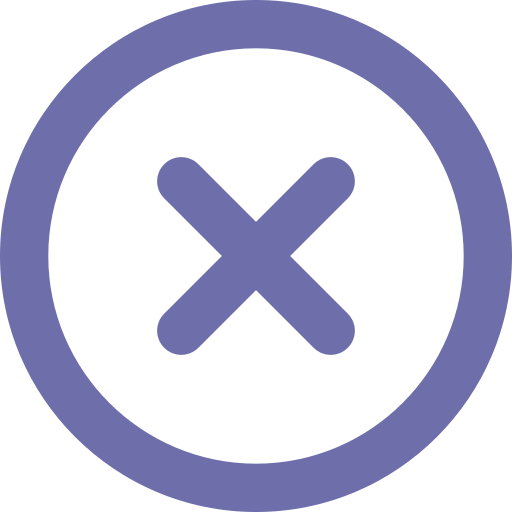
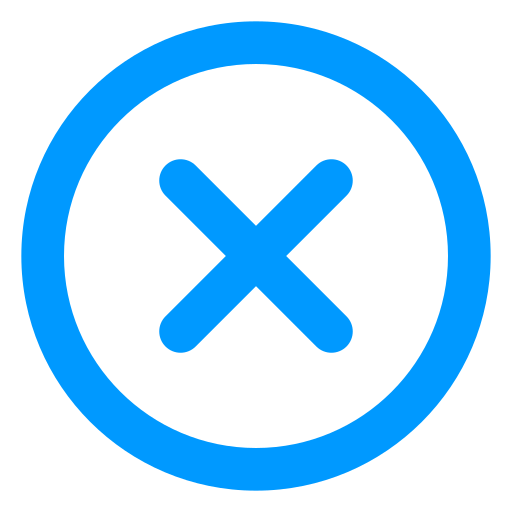
feat : 접수정보 입력 화면 관련 기능 구현
- ModelProperty 의 SetReceptionData 함수 필드 설정 수정
 - MaskControl 버튼 Command 연결 기능 구햔
 - 접수정보 화면 콤보박스 ItemsSource 값 설정
 - 접수정보 현재일시 설정 기능 추가
 - 앱 실행시 공용 데이터 로드하도록 수

diff --git a/SmartEMR.Application/Views/SmartEMRDesk/vSmartEMRDeskRCPInfo.xaml b/SmartEMR.Application/Views/SmartEMRDesk/vSmartEMRDeskRCPInfo.xaml
@@ -21,7 +21,8 @@
         
         <Xpf:BindGrid   Grid.Row="0"
                         LayoutDefinitions="2,8"
-                        BindStyle="DataCell">
+                        BindStyle="DataCell"
+                        ItemSpace="2">
             <x:Array Type="{x:Type Xpf:BindItem}">
                 <Xpf:BindItem   FieldName="RCP_ReceiptDate"
                                 Header="접 수 일 시"
@@ -35,6 +36,14 @@
                                 DisplayMember="attrName"
                                 ValueMember="attrValue"
                                 DateEditType="Time"/>
+
+                <Xpf:BindItem   FieldName="chkSetNowDT"
+                                BindType="CheckBox"
+                                Width="45"
+                                TextValue="현재"
+                                Foreground="DimGray"
+                                FontWeight="SemiBold"
+                                IsBinding="False"/>
             </x:Array>
 
             <x:Array Type="{x:Type Xpf:BindItem}">
@@ -43,7 +52,9 @@
                                 BindType="ComboBox"
                                 Col="0"
                                 Row="1"
-                                ColSpan="2"/>
+                                ColSpan="2"
+                                DisplayMember="CCC_Name"
+                                ValueMember="CCC_Cd"/>
 
                 <Xpf:BindItem   FieldName="RCP_SubjectName"
                                 BindType="TextBox"
@@ -75,16 +86,16 @@
                             BindType="ComboBox"
                             Col="0"
                             Row="3"
-                            DisplayMember="attrName"
-                            ValueMember="attrValue"/>
+                            DisplayMember="CCC_Name"
+                            ValueMember="CCC_Cd"/>
 
             <Xpf:BindItem   FieldName="RCP_Route"
                             Header="내 원 경 로"
                             BindType="ComboBox"
                             Col="1"
                             Row="3"
-                            DisplayMember="attrName"
-                            ValueMember="attrValue"/>
+                            DisplayMember="CCC_Name"
+                            ValueMember="CCC_Cd"/>
 
             <x:Array Type="{x:Type Xpf:BindItem}">
                 <Xpf:BindItem   FieldName="RCP_InsuranceType"
@@ -92,7 +103,9 @@
                                 BindType="ComboBox"
                                 Col="0"
                                 Row="4"
-                                ColSpan="2"/>
+                                ColSpan="2"
+                                DisplayMember="CCC_Name"
+                                ValueMember="CCC_Cd"/>
 
                 <Xpf:BindItem   FieldName="btnSetIRC"
                                 BindType="Button"
@@ -120,8 +133,8 @@
                         Content="접수취소"
                         Glyph="/Images/smartemr_cancel.png"
                         Width="90"
-                        MinHeight="23"
-                        Height="23"
+                        MinHeight="24"
+                        Height="24"
                         Margin="2,0,0,0"
                         Command="{Binding SetReceptionCommand}"
                         CommandParameter="DELETE"
@@ -129,28 +142,23 @@
 
             <Xpf:Button x:Name="btnSaveRCP"
                         Grid.Column="2"
-                        Glyph="/Images/smartemr_cancel.png"
+                        Content="접수등록"
+                        Glyph="/Images/smartemr_save.png"
                         Width="90"
-                        MinHeight="23"
-                        Height="23"
+                        MinHeight="24"
+                        Height="24"
                         Margin="0,0,2,0"
                         Command="{Binding SetReceptionCommand}"
                         CommandParameter="SAVE">
-
-                <Xpf:Button.Content>
-                    <Xpf:TextBlock>
-                        <Run>접수</Run>
-                        <Run Text="{Binding RCPItem.RCP_Idx, RelativeSource={RelativeSource AncestorType={x:Type desk:vSmartEMRDeskRCPInfo}}, Converter={common:IntoToContentConveter}}"/>
-                    </Xpf:TextBlock>
-                </Xpf:Button.Content>
             </Xpf:Button>
         </Xpf:StyleGrid>
 
         <Xpf:MaskControl    x:Name="MaskControl"
                             Grid.RowSpan="2"
-                            MaskText="환자선택후 접수 등록할 수 있습니다."
+                            MaskText="환자선택후 접수 등록할 수 있습니다."                            
+                            MaskVisibility="{Binding RCPItem.RCP_Idx, RelativeSource={RelativeSource AncestorType={x:Type desk:vSmartEMRDeskRCPInfo}}, Converter={converter:IntToVisibilityConverter invert=True}}"
                             ButtonText="접수등록"
                             ButtonImage="/Images/smartemr_register.png"
-                            MaskVisibility="{Binding RCPItem.RCP_Idx, RelativeSource={RelativeSource AncestorType={x:Type desk:vSmartEMRDeskRCPInfo}}, Converter={converter:IntToVisibilityConverter invert=True}}"/>
+                            ButtonCommand="{Binding ShowRCPInfoCommand, RelativeSource={RelativeSource AncestorType={x:Type desk:vSmartEMRDeskRCPInfo}}}"/>
     </Xpf:StyleGrid>
 </base:ModelViewLayout>

diff --git a/SmartEMR.Application/Themes/Generic.xaml b/SmartEMR.Application/Themes/Generic.xaml
@@ -391,7 +391,8 @@
                                         Content="{Binding ButtonText, RelativeSource={RelativeSource TemplatedParent}}"
                                         Glyph="{Binding ButtonImage, RelativeSource={RelativeSource TemplatedParent}}"
                                         Width="90"
-                                        Margin="0,4,0,0"/>
+                                        Margin="0,4,0,0"
+                                        Command="{Binding ButtonCommand, RelativeSource={RelativeSource TemplatedParent}}"/>
                         </StackPanel>
                     </Xpf:StyleGrid>
                 </ControlTemplate>

diff --git a/SmartEMR.Application/Views/SmartEMRDesk/vSmartEMRDeskRCPInfo.xaml.cs b/SmartEMR.Application/Views/SmartEMRDesk/vSmartEMRDeskRCPInfo.xaml.cs
@@ -1,10 +1,11 @@
-using System.Windows;
+using CommunityToolkit.Mvvm.Input;
 using SmartEMR.Application.Core;
 using SmartEMR.Application.ViewBase;
 using SmartEMR.Application.ViewModels;
 using SmartEMR.Application.Xpf;
 using SmartEMR.Domain.Entities;
 using SmartEMR.Domain.Enums;
+using System.Windows;
 
 namespace SmartEMR.Application.Views.SmartEMRDesk
 {
@@ -31,19 +32,23 @@ namespace SmartEMR.Application.Views.SmartEMRDesk
         protected override void SetBindGrid()
         {
             this.BindGrids[0].GetBindItem<StyleTextBox>("RCP_SubjectName")?.HorizontalAlignment = HorizontalAlignment.Stretch;
-            this.BindGrids[0].GetBindItem<StyleTextBox>("RCP_SubjectName")?.Height = 32;
-            this.BindGrids[0].GetBindItem<StyleTextBox>("RCP_SubjectName")?.Margin = new Thickness(2, 0, 2, 0);
+            this.BindGrids[0].GetBindItem<StyleTextBox>("RCP_SubjectName")?.Height = 38;
+            this.BindGrids[0].GetBindItem<StyleTextBox>("RCP_SubjectName")?.Margin = new Thickness(2);
 
             this.BindGrids[0].GetBindItem<ComboBoxEdit>("MUR_Idx_DOC")?.ItemsSource = vm.arrMUR_DOC;
-            this.BindGrids[0].GetBindItem<ComboBoxEdit>("MUR_Idx_DOC")?.SelectedIndex = 0;
-
             this.BindGrids[0].GetBindItem<ComboBoxEdit>("MUR_Idx_STF")?.ItemsSource = vm.arrMUR_STF;
-            this.BindGrids[0].GetBindItem<ComboBoxEdit>("MUR_Idx_STF")?.SelectedIndex = 0;
+            this.BindGrids[0].GetBindItem<ComboBoxEdit>("RCP_Subject")?.ItemsSource = vm.arrRCP_Subject;
+            this.BindGrids[0].GetBindItem<ComboBoxEdit>("RCP_VisitType")?.ItemsSource = vm.arrRCP_VisitType;
+            this.BindGrids[0].GetBindItem<ComboBoxEdit>("RCP_Route")?.ItemsSource = vm.arrRCP_Route;
+            this.BindGrids[0].GetBindItem<ComboBoxEdit>("RCP_InsuranceType")?.ItemsSource = vm.arrRCP_InsuranceType;
+
+            this.BindGrids[0].GetBindItem<StyleTextBox>("RCP_Memo")?.Margin = new Thickness(1);
+
+            this.BindGrids[0].GetBindItem<CheckEdit>("chkSetNowDT")?.EditValueChanged += OnEditValueChanged_CheckBoxEdit;
         }
 
         public override async Task OnBindGrid_BindClick(object sender, BindClickEventArgs e)
         {
-            // 클릭 이벤트 구현
         }
 
         public override void OnBindGrid_BindItemChanged(object? sender, BindItemChangedEventArgs e)
@@ -95,6 +100,12 @@ namespace SmartEMR.Application.Views.SmartEMRDesk
             SetReceptionData(retRCP);
         }
 
+        [RelayCommand]
+        private void ShowRCPInfo()
+        {
+            MaskControl.Visibility = Visibility.Collapsed;
+        }
+
         private void SetReceptionData(Reception? item)
         {
             if (item == null)
@@ -106,12 +117,39 @@ namespace SmartEMR.Application.Views.SmartEMRDesk
 
             if (RCPItem.RCP_Idx == 0)
             {
+                RCPItem.RCP_Subject = "GNR";
+                RCPItem.RCP_VisitType = "FIR";
+                RCPItem.RCP_Route = "DSK";
+                RCPItem.RCP_InsuranceType = "NOR";
+
                 MaskControl.MaskText = "오늘 날짜의 접수내역이 없습니다.";
                 MaskControl.ShowButton = true;
             }
             else
             {
+                btnSaveRCP.Content = "접수수정";
+
                 MaskControl.MaskVisibility = Visibility.Collapsed;
+            }
+        }
+
+        private void OnEditValueChanged_CheckBoxEdit(object sender, DevExpress.Xpf.Editors.EditValueChangedEventArgs e)
+        {
+            var element = sender as CheckEdit;
+            if (element == null) return;
+
+            if (element.IsChecked.GetValueOrDefault(true))
+            {
+                this.BindGrids[0].GetBindItem<DateEdit>("RCP_ReceiptDate")?.IsEnabled = false;
+                this.BindGrids[0].GetBindItem<DateEdit>("RCP_ReceiptTime")?.IsEnabled = false;
+
+                RCPItem.RCP_ReceiptDate = DateTime.Now.ToString("yyyy-MM-dd");
+                RCPItem.RCP_ReceiptTime = DateTime.Now.ToString("HH:mm");
+            }
+            else
+            {
+                this.BindGrids[0].GetBindItem<DateEdit>("RCP_ReceiptDate")?.IsEnabled = true;
+                this.BindGrids[0].GetBindItem<DateEdit>("RCP_ReceiptTime")?.IsEnabled = true;
             }
         }
     }

diff --git a/SmartEMR.Application/Xpf/Xpf.BindGrid.cs b/SmartEMR.Application/Xpf/Xpf.BindGrid.cs
@@ -291,7 +291,7 @@ public partial class BindGrid : StyleGrid, IDisposable
                     DateEditType.Date => new DateEdit { },
                     DateEditType.Time => new DateEdit 
                     {
-                        Mask = "tt HH:mm",
+                        Mask = "tt hh:mm",
                         MaskUseAsDisplayFormat=true,
                         MaskType = DevExpress.Xpf.Editors.MaskType.DateTime,
                         StyleSettings = new DateEditTimePickerStyleSettings()
@@ -312,6 +312,7 @@ public partial class BindGrid : StyleGrid, IDisposable
         visualChild.HorizontalAlignment = bindItem.HAlignment;
         visualChild.VerticalAlignment = bindItem.VAlignment;
         visualChild.Margin = (Thickness)((bindItem.Margin == null) ? new Thickness(this.ItemSpace) : bindItem.Margin);
+        visualChild.IsEnabled = bindItem.IsEnabled;
 
         if (!string.IsNullOrWhiteSpace(bindItem.BackGround) && SmartMVVM.Common.BrushConverter.ConvertFromString(bindItem.BackGround) is Brush bg)
             visualChild.SetValue(BackgroundProperty, bg);
@@ -321,7 +322,14 @@ public partial class BindGrid : StyleGrid, IDisposable
 
         if (bindItem.IsBindClickEvent)
         {
-            if (visualChild is Button button) button.Click += OnBindClick;
+            if (visualChild is Button button) 
+            {
+                button.Click += OnBindClick;
+            }
+            else if (visualChild is CheckEdit chkEdit)
+            {
+                chkEdit.PreviewMouseLeftButtonDown += OnBindClick;
+            }
             else visualChild.MouseLeftButtonDown += OnBindClick;
         }
 

diff --git a/SmartEMR.Application/Xpf/Xpf.MaskControl.cs b/SmartEMR.Application/Xpf/Xpf.MaskControl.cs
@@ -1,11 +1,11 @@
-using System.Windows;
+using CommunityToolkit.Mvvm.Input;
+using System.Windows;
 using System.Windows.Media;
 
 namespace SmartEMR.Application.Xpf;
 
 public class MaskControl : CustomControl
 {
-    public string? MaskText { get; set; }
     public string? ButtonText { get; set; }
     public ImageSource? ButtonImage { get; set; }
 
@@ -24,6 +24,15 @@ public class MaskControl : CustomControl
         }
     }
 
+    public static readonly DependencyProperty MaskTextProperty =
+        DependencyProperty.Register(nameof(MaskText), typeof(string), typeof(MaskControl), new PropertyMetadata(string.Empty, null));
+
+    public string? MaskText 
+    {
+        get => (string)GetValue(MaskTextProperty);
+        set => SetValue(MaskTextProperty, value);
+    }
+
     public static readonly DependencyProperty MaskVisibilityProperty =
         DependencyProperty.Register(nameof(MaskVisibility), typeof(Visibility), typeof(MaskControl), new PropertyMetadata(Visibility.Visible, null));
 
@@ -31,6 +40,15 @@ public class MaskControl : CustomControl
     {
         get => (Visibility)GetValue(MaskVisibilityProperty);
         set => SetValue(MaskVisibilityProperty, value);
+    }
+
+    public static readonly DependencyProperty ButtonCommandProperty =
+        DependencyProperty.Register(nameof(ButtonCommand), typeof(IRelayCommand), typeof(MaskControl), new PropertyMetadata(null, null));
+
+    public IRelayCommand ButtonCommand
+    {
+        get => (IRelayCommand)GetValue(ButtonCommandProperty);
+        set => SetValue(ButtonCommandProperty, value);
     }
 
     static MaskControl()

diff --git a/SmartEMR.Application/Common/ModelProperty.cs b/SmartEMR.Application/Common/ModelProperty.cs
@@ -110,16 +110,17 @@ public class ModelProperty
     public void SetReceptionData(Reception oldItem, Reception newItem)
     {
         oldItem.RCP_Idx = newItem.RCP_Idx.GetValueOrDefault(0);
-        oldItem.MUR_Idx_DOC = newItem.MUR_Idx_DOC;
-        oldItem.MUR_Idx_STF = newItem.MUR_Idx_STF;
+        oldItem.MUR_Idx_DOC = newItem.MUR_Idx_DOC.GetValueOrDefault(0);
+        oldItem.MUR_Idx_STF = newItem.MUR_Idx_STF.GetValueOrDefault(0);
         oldItem.RES_Idx = newItem.RES_Idx;
         oldItem.RCP_VisitType = newItem.RCP_VisitType;
         oldItem.RCP_Status = newItem.RCP_Status;
         oldItem.RCP_Route = newItem.RCP_Route;
         oldItem.RCP_Subject = newItem.RCP_Subject;
+        oldItem.RCP_SubjectName = newItem.RCP_SubjectName;
         oldItem.RCP_InsuranceType = newItem.RCP_InsuranceType;
-        oldItem.RCP_ReceiptDate = newItem.RCP_ReceiptDate;
-        oldItem.RCP_ReceiptTime = newItem.RCP_ReceiptTime;
+        oldItem.RCP_ReceiptDate = string.IsNullOrWhiteSpace(newItem.RCP_ReceiptDate) ? DateTime.Now.ToString("yyyy-MM-dd") : newItem.RCP_ReceiptDate;
+        oldItem.RCP_ReceiptTime = string.IsNullOrWhiteSpace(newItem.RCP_ReceiptTime) ? DateTime.Now.ToString("HH:mm") : newItem.RCP_ReceiptTime;
         oldItem.RCP_StartTreatTime = newItem.RCP_StartTreatTime;
         oldItem.RCP_EndTreatTime = newItem.RCP_EndTreatTime;
         oldItem.RCP_Memo = newItem.RCP_Memo;

diff --git a/SmartEMR.Application/ViewModels/SmartEMRRCPInfoViewModel.cs b/SmartEMR.Application/ViewModels/SmartEMRRCPInfoViewModel.cs
@@ -8,12 +8,19 @@ public partial class SmartEMRRCPInfoViewModel : BaseViewModel<Reception>
 {
     public IQueryable<MemberUser> arrMUR_DOC { get; set; } = default!;
     public IQueryable<MemberUser> arrMUR_STF { get; set; } = default!;
+    public IQueryable<ChartCommonCode> arrRCP_Subject { get; set; } = default!;
+    public IQueryable<ChartCommonCode> arrRCP_VisitType { get; set; } = default!;
+    public IQueryable<ChartCommonCode> arrRCP_Route { get; set; } = default!;
+    public IQueryable<ChartCommonCode> arrRCP_InsuranceType { get; set; } = default!;
 
     public override void Initialize()
     {
         arrMUR_DOC = SmartMVVM.Master.GetMemberUsers("DOC", true, "의사선택");
         arrMUR_STF = SmartMVVM.Master.GetMemberUsers("STF", true, "직원선택");
-
+        arrRCP_Subject = SmartMVVM.Common.GetChartCommonCode("RCP","Subject");
+        arrRCP_VisitType = SmartMVVM.Common.GetChartCommonCode("RCP", "VisitType");
+        arrRCP_Route = SmartMVVM.Common.GetChartCommonCode("RCP", "Route");
+        arrRCP_InsuranceType = SmartMVVM.Common.GetChartCommonCode("RCP", "InsuranceType");
     }
 
     protected override Reception GetModel(Reception item)

diff --git a/SmartEMR.Application/App.xaml.cs b/SmartEMR.Application/App.xaml.cs
@@ -18,7 +18,7 @@ namespace SmartEMR.Application
 
         private const int MUR_Idx = 100000;
 
-        protected override void OnStartup(StartupEventArgs e)
+        protected override async void OnStartup(StartupEventArgs e)
         {
             _mutex = new Mutex(true, AppName, out bool isNewInstance);
 
@@ -56,6 +56,8 @@ namespace SmartEMR.Application
                 return;
             }
 
+            await InitializeAppData();
+
             var manager = SplashScreenManager.CreateThemed();
 
             manager.Show();
@@ -81,6 +83,12 @@ namespace SmartEMR.Application
             
             return loginWindow.ShowDialog() ?? false;
 #endif 
+        }
+
+        private async Task InitializeAppData()
+        {
+            await SmartMVVM.Master.Initialize();
+            await SmartMVVM.Common.Initialize();
         }
 
         protected override void OnExit(ExitEventArgs e)

diff --git a/SmartEMR.Application/Views/Shared/vLayout.xaml.cs b/SmartEMR.Application/Views/Shared/vLayout.xaml.cs
@@ -28,9 +28,6 @@ public partial class vLayout : ViewLayout
     {
         this.Loaded += async (s, e) =>
         {
-            await SmartMVVM.Master.Initialize();
-            await SmartMVVM.Common.Initialize();
-
             this.Focus();
         };
     }
